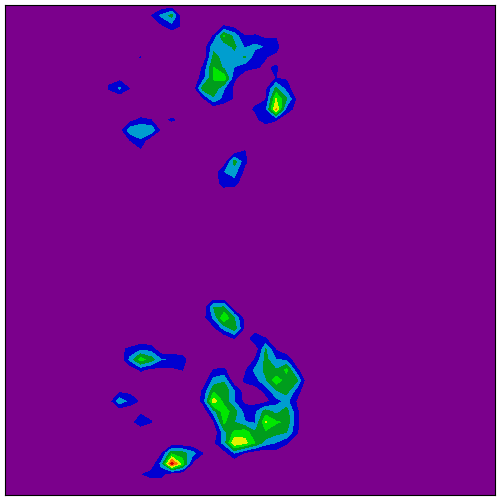
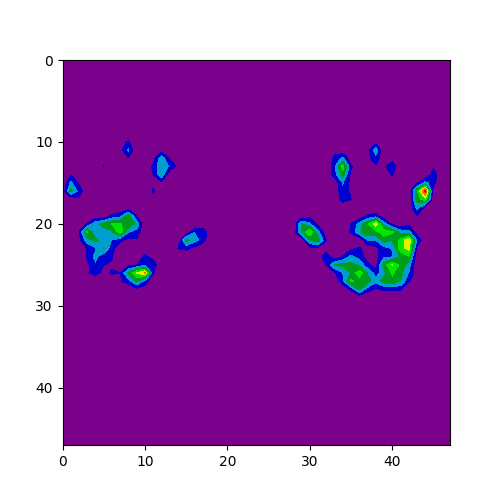
re-determine which way is up

diff --git a/Software/Testing/haptic_assisted_inversions_device_test.py b/Software/Testing/haptic_assisted_inversions_device_test.py
@@ -22,14 +22,14 @@ fp = './Results/Sequence'+str(time.time_ns())
 
 class Haptic_Assisted_Inversions_Device_Mat_Test(unittest.TestCase):
     
-    # @unittest.skip("targeting one test")
+    @unittest.skip("targeting one test")
     #make sure mat data can be accessed
     def test_load_mat_data(self):
         hands_array = np.load("./hands_rot.npy")
         m = Mat(hands_array)
         self.assertIsInstance(m.Values, np.ndarray)
 
-    # @unittest.skip("targeting one test")
+    @unittest.skip("targeting one test")
     #make sure there are only 2 clusters
     def test_k_means(self):
         h = Hands()
@@ -38,7 +38,7 @@ class Haptic_Assisted_Inversions_Device_Mat_Test(unittest.TestCase):
 
         self.assertEqual(len(h.kmeans.cluster_centers_), 2)
 
-    # @unittest.skip("targeting one test")
+    @unittest.skip("targeting one test")
     #make sure can create a mat data with empty values
     def test_create_mat_zeros(self):
         hands_array = np.zeros(shape=(3,3), dtype=float)
@@ -46,14 +46,14 @@ class Haptic_Assisted_Inversions_Device_Mat_Test(unittest.TestCase):
 
         self.assertIsInstance(m.Values, np.ndarray)
 
-    # @unittest.skip("targeting one test")
+    @unittest.skip("targeting one test")
     def test_create_mat_1x3(self):
         hands_array = np.array([1.0, 2.0, 3.0])
         m = Mat(hands_array)
 
         self.assertIsInstance(m.Values, np.ndarray)
 
-    # @unittest.skip("targeting one test")
+    @unittest.skip("targeting one test")
     #make sure can create a 2d mat
     def test_create_mat_3x3(self):
         hands_array = np.array([[1.0, 1.0, 1.0], [2.0, 2.0, 2.0], [3.0, 3.0, 3.0]])
@@ -61,7 +61,7 @@ class Haptic_Assisted_Inversions_Device_Mat_Test(unittest.TestCase):
 
         self.assertIsInstance(m.Values, np.ndarray)
 
-    # @unittest.skip("targeting one test")
+    @unittest.skip("targeting one test")
     #make sure can find 2 clusters with a simple 2d mat
     def test_kmeans(self):
         hands_array = np.array([[0.0, 0.0, 0.0], [1.0, 0.0, 2.0], [0.0, 0.0, 0.0]])
@@ -71,7 +71,7 @@ class Haptic_Assisted_Inversions_Device_Mat_Test(unittest.TestCase):
 
         self.assertEqual(len(h.kmeans.cluster_centers_), 2)
 
-    # @unittest.skip("targeting one test")
+    @unittest.skip("targeting one test")
     #make sure can find and separate 2 UNORDERED hands with a simple 2d mat
     def test_isolate_hands_unordered(self):
         hands_array = np.array([[0.0, 0.0, 0.0], [1.0, 0.0, 2.0], [0.0, 0.0, 0.0]])
@@ -88,7 +88,7 @@ class Haptic_Assisted_Inversions_Device_Mat_Test(unittest.TestCase):
     
         self.assertDictEqual(rl, {(2,1): 2.0, (0,1): 1.0})
 
-    # @unittest.skip("targeting one test")
+    @unittest.skip("targeting one test")
     #make sure can separate and correctly label the hands
     def test_isolate_hands_ordered(self):
         hands_array = np.array([[0.0, 0.0, 0.0], [1.0, 0.0, 2.0], [0.0, 0.0, 0.0]])
@@ -102,7 +102,7 @@ class Haptic_Assisted_Inversions_Device_Mat_Test(unittest.TestCase):
         self.assertEqual(h.get_right_hand().get_points().get((2, 1)), 2.0)
         self.assertEqual(h.get_left_hand().get_points().get((0, 1)), 1.0)
 
-    # @unittest.skip("targeting one test")
+    @unittest.skip("targeting one test")
     #make sure the basic cop calculation function works
     def test_calculate_cop(self):
         weighted_coords = dict()
@@ -116,7 +116,7 @@ class Haptic_Assisted_Inversions_Device_Mat_Test(unittest.TestCase):
         self.assertEqual(hand_utils.calculate_cop(weighted_coords),[4.0/3.0, 1.0])
         self.assertEqual(hand_utils.calculate_cop(unweighted_coords), [1.0, 1.0])
 
-    # @unittest.skip("targeting one test")
+    @unittest.skip("targeting one test")
     #make sure it's doing all the calculations properly on a simple mat example
     def test_cop_calculations(self):
         hands_array = np.array([[0.0, 0.0, 0.0], [1.0, 0.0, 2.0], [0.0, 0.0, 0.0]])
@@ -131,7 +131,7 @@ class Haptic_Assisted_Inversions_Device_Mat_Test(unittest.TestCase):
         self.assertEqual(h.get_cop(), [4.0/3.0, 1.0])
         self.assertEqual(h.get_ideal_cop(), [1.0, 1.0])
 
-    # @unittest.skip("targeting one test")
+    @unittest.skip("targeting one test")
     #make sure the basic vector calculation function works
     def test_create_vector(self):
         t1 = [4.0/3.0, 1.0]
@@ -142,7 +142,7 @@ class Haptic_Assisted_Inversions_Device_Mat_Test(unittest.TestCase):
 
         self.assertEqual(hand_utils.create_vector(t1, t2), (tv[0], tv[1]))
 
-    # @unittest.skip("targeting one test")
+    @unittest.skip("targeting one test")
     #make sure the vector is calculated properly using a simple mat example
     def test_vector(self):
         hands_array = np.array([[0.0, 0.0, 0.0], [1.0, 0.0, 2.0], [0.0, 0.0,0.0]])
@@ -163,7 +163,7 @@ class Haptic_Assisted_Inversions_Device_Mat_Test(unittest.TestCase):
 
         self.assertEqual(h.get_correction_vector(), (tv[0], tv[1]))
 
-    # @unittest.skip("targeting one test")
+    @unittest.skip("targeting one test")
     #make sure the actuators are selected properly using a simple mat example
     def test_select_actuators(self):
         hands_array = np.array([[0.0, 0.0, 0.0], [1.0, 0.0, 2.0], [0.0, 0.0, 0.0]])
@@ -195,7 +195,7 @@ class Haptic_Assisted_Inversions_Device_Mat_Test(unittest.TestCase):
         self.assertTrue(h.get_actuators().get_l_wrist().is_on())
         self.assertFalse(h.get_actuators().get_l_left().is_on())
 
-    # @unittest.skip("targeting one test")
+    @unittest.skip("targeting one test")
     #make sure an entire loop runs properly
     def test_scatter_plot_integrated(self):
         hands_array = np.load(os.getcwd() + "/hands_rot.npy")
@@ -231,6 +231,43 @@ class Haptic_Assisted_Inversions_Device_Mat_Test(unittest.TestCase):
         self.assertFalse(h.get_actuators().get_l_wrist().is_on())
         self.assertFalse(h.get_actuators().get_l_left().is_on())
 
+    # @unittest.skip("targeting one test")
+    #make sure an entire loop runs properly
+    def test_scatter_plot_integrated2(self):
+        hands_array = np.load(os.getcwd() + "/hands_correct.npy")
+        m = Mat(hands_array)
+        #tm = np.rot90(m.Values, 2)
+        print(m)
+
+        h = Hands()
+        h.run_kmeans(hands_array)
+        h1_bounds, h2_bounds = h.isolate_hands(hands_array)
+        h.generate_cops(h1_bounds, h2_bounds)
+        h.find_correction_vector()
+        h.select_actuators()
+
+        figure, ax = plt.subplots(figsize=(5,5))
+        plt.ion()
+        script_dir = os.path.dirname(__file__)
+        results_dir = os.path.join(script_dir, 'Results/')
+        filepath = './Results/scatterCorrect'+str(time.time_ns())+'.png'
+        #sample_file_name = results_dir+'correction_'+datetime.datetime.now().strftime("%d/%m/%Y-%H:%M:%S")+'.png'
+
+        hand_utils.generate_scatter_plot(h.kmeans, h.coords_only, h.get_right_hand().get_cop(), h.get_left_hand().get_cop(), h.get_ideal_cop(), h.get_cop(), figure, ax, fp=filepath, p="bw")
+        plt.show()
+
+        print(h.get_actuators())
+
+        self.assertFalse(h.get_actuators().get_r_index().is_on())
+        self.assertFalse(h.get_actuators().get_r_right().is_on())
+        self.assertFalse(h.get_actuators().get_r_wrist().is_on())
+        self.assertFalse(h.get_actuators().get_r_left().is_on())
+        self.assertTrue(h.get_actuators().get_l_index().is_on())
+        self.assertFalse(h.get_actuators().get_l_right().is_on())
+        self.assertFalse(h.get_actuators().get_l_wrist().is_on())
+        self.assertFalse(h.get_actuators().get_l_left().is_on())
+
+    @unittest.skip("don't need to keep making dummy files")
     #make sure sequences of contour plots can save
     def test_contour_plot(self):
         hands_array = np.load(os.getcwd() + "/hands_rot.npy")
@@ -240,6 +277,15 @@ class Haptic_Assisted_Inversions_Device_Mat_Test(unittest.TestCase):
                 os.makedirs(fp)
             m.plotMatrix(fp=fp+'/contour'+str(time.time_ns())+'.png')
 
+    # @unittest.skip("targeting one test")
+    def test_contour_plot2(self):
+        hands_array = np.load(os.getcwd() + "/hands_correct.npy")
+        m = Mat(hands_array)
+        print(m)
+        filepath = './Results/contourCorrect'+str(time.time_ns())+'.png'
+        m.plotMatrix(fp=filepath)
+
+    @unittest.skip("don't need to keep making dummy files")
     def test_save_data(self):
         hands_array = np.load(os.getcwd() + "/hands_rot.npy")
         m = Mat(hands_array)
@@ -251,6 +297,7 @@ class Haptic_Assisted_Inversions_Device_Mat_Test(unittest.TestCase):
         m.plotMatrix(fp=filepath+'/plot/contour'+str(time.time_ns())+'.png')
         np.save(filepath+'/data/data'+str(time.time_ns())+'.npy', m.Values)
 
+    @unittest.skip("don't need to keep making dummy files")
     def test_save_data_sequence(self):
         hands_array = np.load(os.getcwd() + "/hands_rot.npy")
         m = Mat(hands_array)

diff --git a/Software/Testing/commensalistech_symbiosis_test.py b/Software/Testing/commensalistech_symbiosis_test.py
@@ -19,7 +19,7 @@ import commensalistech_symbiosis as techbio
 
 class Commensalistech_Symbiosis_Test(unittest.TestCase):
 
-    # @unittest.skip("targeting one test")
+    @unittest.skip("targeting one test")
     def test_hand_boundaries(self):
         hands_array = np.load(os.getcwd() + "/hands_rot.npy")
         m = Mat(hands_array)
@@ -31,8 +31,8 @@ class Commensalistech_Symbiosis_Test(unittest.TestCase):
         h.find_correction_vector()
         h.select_actuators()
 
-        #print("left hand boundaries: ", h.get_left_hand().get_bounds())
-        #print("right hand boundaries: ", h.get_right_hand().get_bounds())
+        # print("left hand boundaries: ", h.get_left_hand().get_bounds())
+        # print("right hand boundaries: ", h.get_right_hand().get_bounds())
 
     @unittest.skip("targeting one test")
     #make sure an entire loop runs properly
@@ -79,7 +79,8 @@ class Commensalistech_Symbiosis_Test(unittest.TestCase):
         time.sleep(1)
         techbio.send_instructions(client, instructions)
 
-    @unittest.skip("targeting one test")
+    # this test doesn't work? something with the name maybe?
+    # @unittest.skip("targeting one test")
     def test_sound_trigger_integrated_bounds(self):  
         args = techbio.create_args()
         client = udp_client.SimpleUDPClient(args.ip, args.port)
@@ -89,11 +90,27 @@ class Commensalistech_Symbiosis_Test(unittest.TestCase):
 
         bounds, vector = techbio.process_data(data, 1)
         instructions = techbio.compile_instructions(vector, bounds, 1)
+        print(instructions)
+        time.sleep(1)
+        techbio.send_instructions(client, instructions)
+    
+    def test_sound_trigger_with_bounds(self):
+        print("testing bounds")
+        args = techbio.create_args()
+        client = udp_client.SimpleUDPClient(args.ip, args.port)
+
+        hands_array = np.load(os.getcwd() + "/hands_rot.npy")
+        data = techbio.get_mat_data(hands_array)
+
+        bounds, vector = techbio.process_data(data, 1)
+        instructions = techbio.compile_instructions(vector, bounds, 1)
+        print(instructions)
         time.sleep(1)
         techbio.send_instructions(client, instructions)
 
-    # @unittest.skip("targeting one test")
+    @unittest.skip("targeting one test")
     def test_sound_trigger_both_value_types(self):  
+        print("testing both value types")
         args = techbio.create_args()
         client = udp_client.SimpleUDPClient(args.ip, args.port)
         b = 1
@@ -149,6 +166,12 @@ class Commensalistech_Symbiosis_Test(unittest.TestCase):
             print(instructions)
             techbio.send_instructions(client, instructions)
             time.sleep(1)
+
+    def test_value_range(self):
+        hands_array = np.load(os.getcwd() + "/hands_rot.npy")
+        m = Mat(hands_array)
+        
+        print(m.Values)
 
 
 if __name__ == '__main__':

diff --git a/Software/haptic_assisted_inversions_device.py b/Software/haptic_assisted_inversions_device.py
@@ -19,8 +19,9 @@ ROWS = 48  # Rows of the sensor
 COLS = 48  # Columns of the sensor
 DEFAULT_PORT = '/dev/cu.usbmodem104742601'
 DEFAULT_FOLDER = './Results/Sequence'+str(time.time_ns())
-SAVE_SEQUENCE = False
-TEST = True
+SAVE_SEQUENCE = True
+TEST = False
+LIVEMAT = True
 
 def create_app(data = None):
     app = Flask(__name__)
@@ -50,14 +51,8 @@ def sendDataToArduinoHelper(data):
     #if data is a Mat object -> used for normal HAND behavior
     if isinstance(data, Mat):
         data.get_matrix()
-        print(data)
+        data.printMatrix()
         a = process_mat_data(data.Values)
-        if SAVE_SEQUENCE:
-            if not os.path.exists(DEFAULT_FOLDER):
-                os.makedirs(DEFAULT_FOLDER+'/plot')
-                os.makedirs(DEFAULT_FOLDER+'/data')
-            data.plotMatrix(fp=DEFAULT_FOLDER+'/plot/contour'+str(time.time_ns())+'.png')
-            np.save(DEFAULT_FOLDER+'/data/data'+str(time.time_ns())+'.npy', data.Values)
     return a
 
 # process both hands
@@ -91,15 +86,33 @@ if __name__ == '__main__':
 
     try:
         if(TEST):
-            hands_array = np.load(os.getcwd() + "/Testing/hands_rot.npy")
-            m = Mat(hands_array)
-            app, data = create_app(hands_array)
-            m.printMatrix()
-            m.plotMatrix()
-            app.run(host='0.0.0.0', port=8090, threaded=True)
+            if LIVEMAT:
+                print("TESTING LIVE MAT")
+                m = Mat(hand_utils.get_port())
+                while(True):
+                    sendDataToArduino(m)
+                    time.sleep(0.1)
+
+            else:
+                hands_array = np.load(os.getcwd() + "/Testing/hands_rot.npy")
+                m = Mat(hands_array)
+                app, data = create_app(hands_array)
+                m.printMatrix()
+                m.plotMatrix()
+                time.sleep(1)
+                app.run(host='0.0.0.0', port=8090, threaded=True)
         else:
             app, data = create_app()
             app.run(host='0.0.0.0', port=8090, threaded=True)
+            # TODO: save sequences in live
+            # can only draw in main thread, so it only saves the first snapshot
+            if SAVE_SEQUENCE:
+                if not os.path.exists(DEFAULT_FOLDER):
+                    os.makedirs(DEFAULT_FOLDER+'/plot')
+                    os.makedirs(DEFAULT_FOLDER+'/data')
+
+                data.plotMatrix(fp=DEFAULT_FOLDER+'/plot/contour'+str(time.time_ns())+'.png')
+                np.save(DEFAULT_FOLDER+'/data/data'+str(time.time_ns())+'.npy', data.Values)
             # time.sleep(0.1) # not sure if server should sleep or if it should all be on the gloves' end
     except KeyboardInterrupt:
         print("\nProgram terminated by user.")

diff --git a/Software/Mat.py b/Software/Mat.py
@@ -76,7 +76,7 @@ class Mat:
         self.active_points_get_map()
 
     def printMatrix(self, c=COLS, r=ROWS):
-        for x in range(c): #x
+        for x in range(c-1, -1, -1): #x
             tmp = ""
             for y in range(r): #y
                 tmp = tmp +   hex(int(self.Values[x][y]))[-1]
@@ -96,7 +96,8 @@ class Mat:
     def generatePlot(self, Z, fp=DEFUALT_FIG_PATH):
         plt.ion()
         fig, ax = plt.subplots(figsize=(5,5))
-        plt.gca().invert_yaxis()
+        # plt.gca().invert_yaxis()
+        # plt.gca().invert_xaxis()
 
         ax.contourf(np.arange(0, ROWS), np.arange(0, COLS), Z, levels=7, cmap="nipy_spectral")
 
@@ -107,7 +108,7 @@ class Mat:
 
     def __str__(self):
         s = ""
-        for x in range(COLS): #x
+        for x in range(COLS-1, -1, -1): #x
             tmp = ""
             for y in range(ROWS): #y
                 tmp = tmp +   hex(int(self.Values[x][y]))[-1]

diff --git a/Software/hand_utils.py b/Software/hand_utils.py
@@ -102,7 +102,7 @@ def get_palette(name):
         }
 
 def generate_scatter_plot(kmeans, coords_only, rcop, lcop, ideal_cop, actual_cop, figure, ax, r=ROW_SIZE, c=COL_SIZE, fp=get_filepath(), p="color"):
-    ax.invert_yaxis()
+    # ax.invert_yaxis()
 
     palette = get_palette(p)
 
